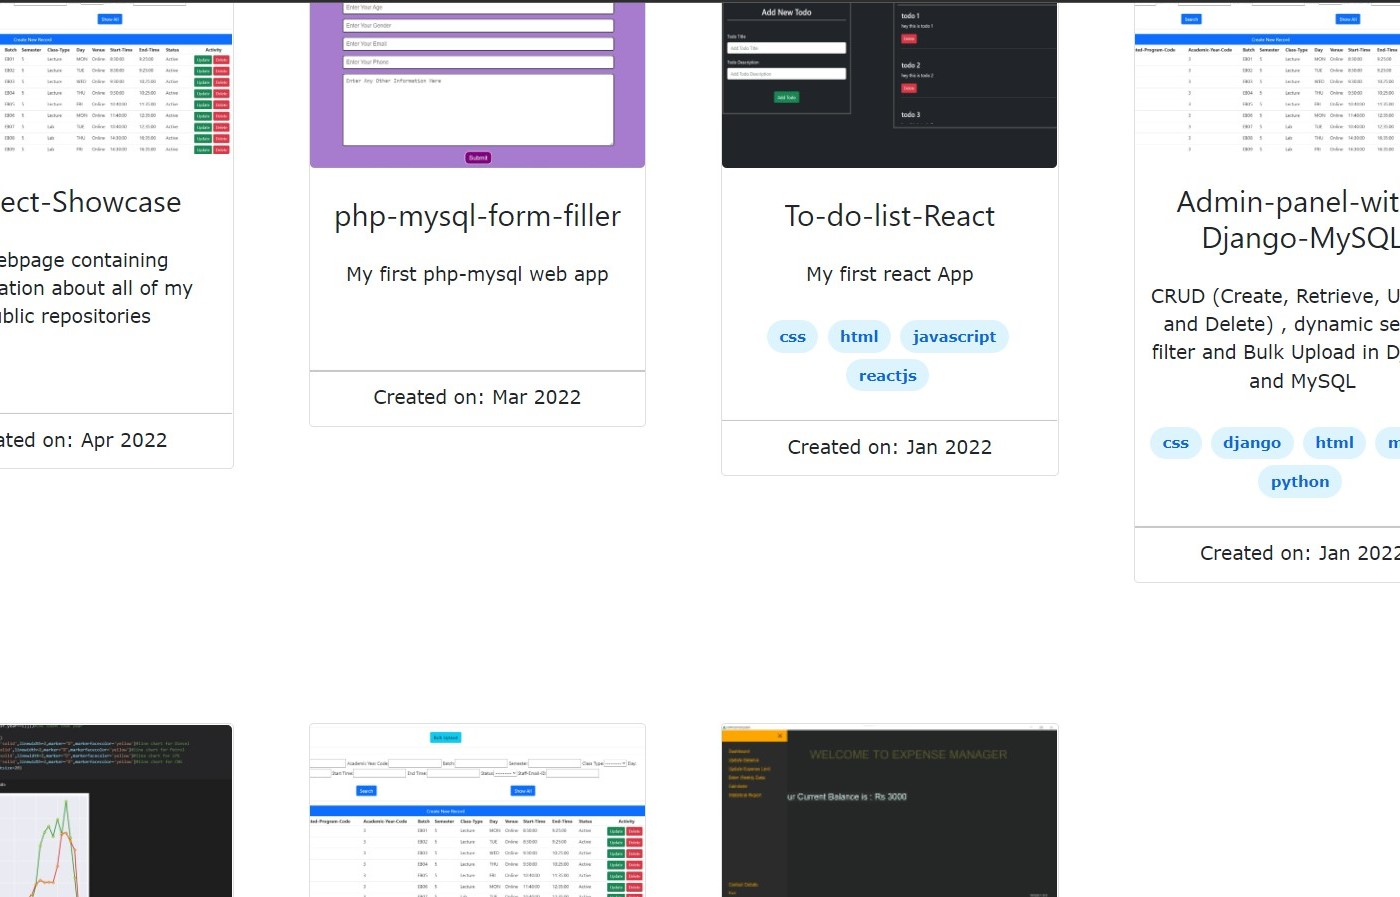
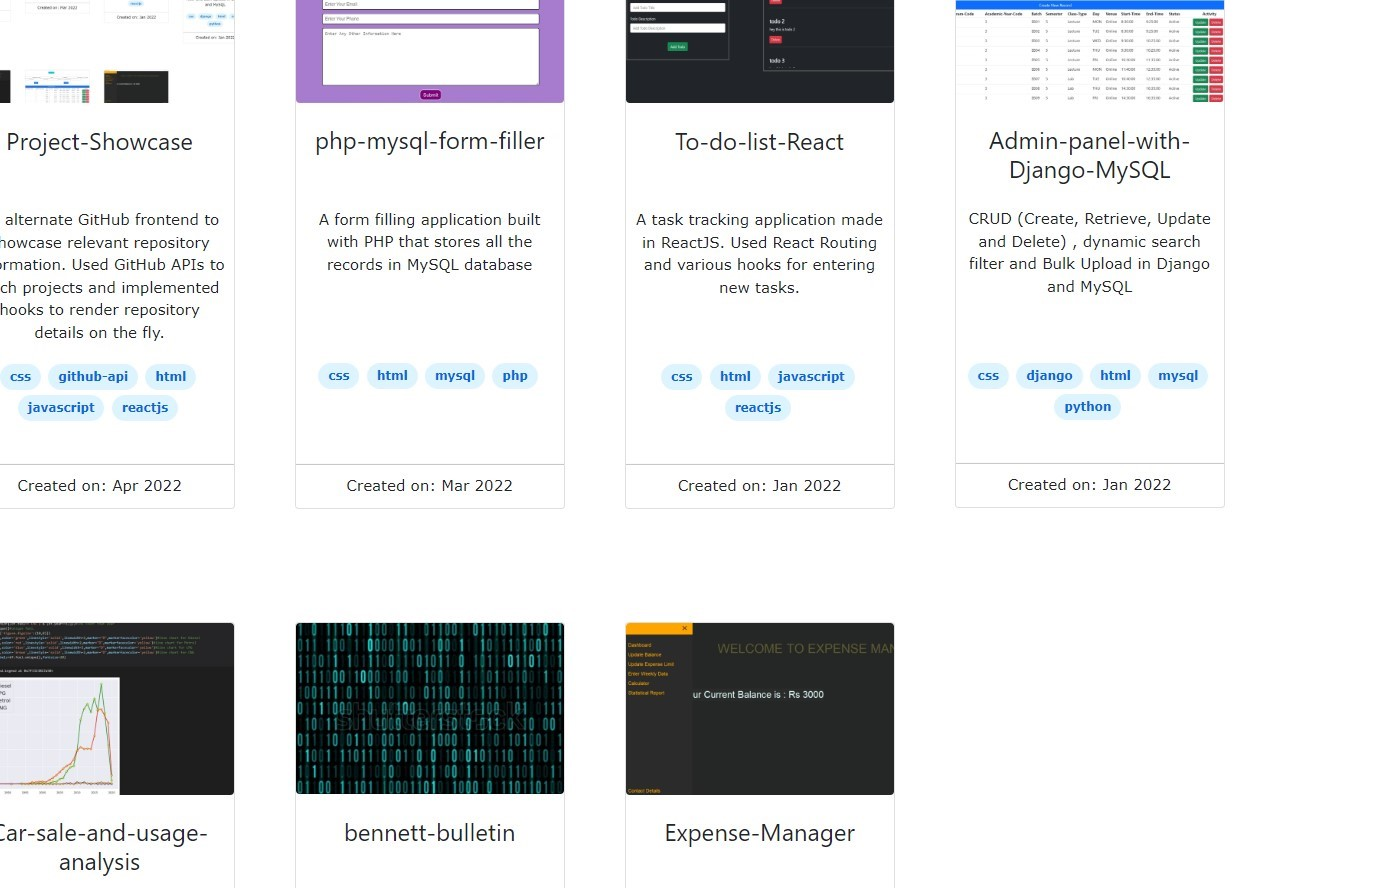
added descriptions and tags to all repos

diff --git a/my_github_repos/src/components/FetchAPI.jsx b/my_github_repos/src/components/FetchAPI.jsx
@@ -1,9 +1,5 @@
 import React, { useState, useEffect } from 'react'
-// const { base64decode } = require('nodejs-base64');
-// import axios from 'axios';
 import moment from "moment";
-import Image_dir from './Images';
-import "../components/images/Admin-panel-with-Django-MySQL.jpg"
 import "./projects.css"
 
 
@@ -45,7 +41,7 @@ const Readme2 = () => {
         "justifyContent": "right",
         "marginLeft": "-15px",
         "marginRight": "-15px",
-        "height":"100px",
+        "height":"130px",
     }
 
 
@@ -57,7 +53,6 @@ const Readme2 = () => {
 
 
     let mytag = {
-        "display": "block",
         "justifyContent": "center",
         "textAlign": "center",
         "background": "#ddf4ff",
@@ -76,10 +71,6 @@ const Readme2 = () => {
 
     }
 
-    let flexbox_sizer = {
-        
-    }
-
 
     return (
         <div><br />
@@ -89,7 +80,7 @@ const Readme2 = () => {
 
                     {
                         users.sort(sortFunction).map((curr) => {
-                            if(curr.name !== 'Software-testing' && curr.name !== 'php-jwt' && curr.name !== 'Software-Engineering' && curr.name !== 'Coursera---HTML-CSS-and-Javascript-for-Web-Developers' && curr.name !== 'Cryptonite' && curr.name !== 'All-in-one-Linked-List' ){
+                            if(curr.name !== 'PageIt-client' && curr.name !== 'PageIt-server' && curr.name !== 'Software-testing' && curr.name !== 'php-jwt' && curr.name !== 'Software-Engineering' && curr.name !== 'Coursera---HTML-CSS-and-Javascript-for-Web-Developers' && curr.name !== 'Cryptonite' && curr.name !== 'All-in-one-Linked-List' ){
                                 return <div className="col-10 col-md-3 mt-5" style={myStyle} key={ curr.id }>
                                     <div className="card">
                                         <div className="d-flex align-items-center imagesizer_outer">
@@ -113,6 +104,7 @@ const Readme2 = () => {
                                                         }
                                                     </span>
                                                 </div>
+
                                                 <div className='tagHeight'>
                                                     {
                                                         curr.topics.map((topics_curr, index) => {
@@ -125,10 +117,14 @@ const Readme2 = () => {
                                                         })
                                                     }
                                                 </div>
-                                               <br /><hr />
-                                                    <div className="text-left" style={mydate}>
-                                                        Created on: { moment(curr.created_at, 'YYYY/MM/DD').format('MMM')} {moment(curr.created_at).utc().format('YYYY') }
-                                                    </div>
+
+                                               <br />
+                                               <hr />
+
+                                                <div className="text-left" style={mydate}>
+                                                    Created on: { moment(curr.created_at, 'YYYY/MM/DD').format('MMM')} {moment(curr.created_at).utc().format('YYYY') }
+                                                </div>
+
                                                 <br />
                                             </div>
                                         </div>

diff --git a/my_github_repos/src/components/projects.css b/my_github_repos/src/components/projects.css
@@ -1,3 +1,3 @@
 .tagHeight{
-    height : 50px;
+    height : 60px;
 }
